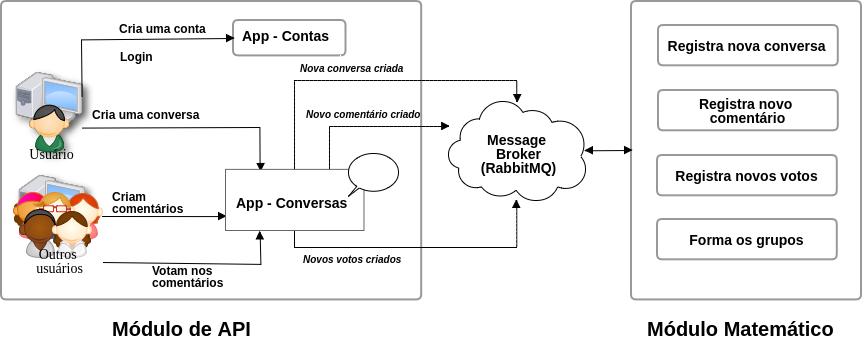
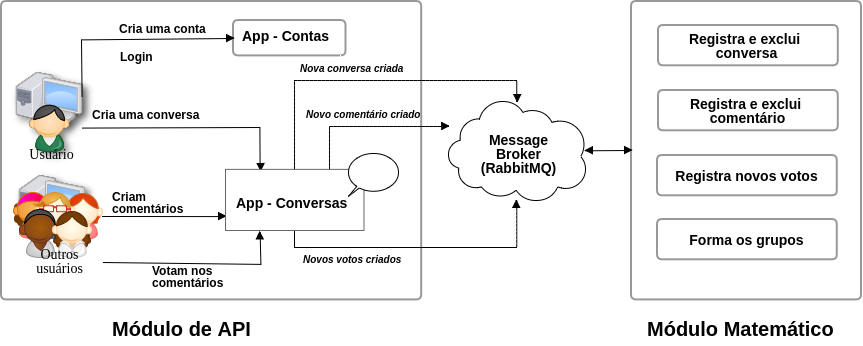
Adjusting images

diff --git a/editaveis/proposta.tex b/editaveis/proposta.tex
@@ -65,7 +65,9 @@
     
     Considerando o objetivo do trabalho de implementar uma API capaz de trabalhar com 
     módulos matemáticos plugáveis, a solução proposta está representada na Figura \ref{fig:pentano}, 
-    na qual são indicados os dois módulos tratados na solução: os módulos API e Matemático.
+    na qual são indicados os dois módulos tratados na solução: os módulos API e Matemático. Estes
+    dois módulos em conjunto com a aplicação cliente formam o sistema por completo que será denominado neste trabalho
+    de \textit{Pentano}.
     
     \begin{figure}[h!]
     \centering
@@ -140,7 +142,7 @@
 	\begin{figure}[h!]
 	\centering
 	\includegraphics[scale=0.8]{figuras/arquitetura_api.png}
-	\caption{Entidades da API}
+	\caption{Arquitetura de \textit{apps} da API}
 	\label{fig:arquitetura_api}
 	\end{figure}
 
@@ -204,8 +206,7 @@
 	  \begin{tabular}[c]{@{}l@{}}Adicionar novo voto\\ (pentano.add\_votes)\end{tabular}             & \begin{tabular}[c]{@{}l@{}}Identificador da conversa\\ Lista de votos e seus usuários\end{tabular}                                             & Confirmação de Sucesso               \\ \midrule
 	  \begin{tabular}[c]{@{}l@{}}Clusterizar\\ (pentano.get\_cluster)\end{tabular}                   & \begin{tabular}[c]{@{}l@{}}Identificador da conversa\\ Identificadores dos usuários amigos\end{tabular}               & \begin{tabular}[c]{@{}l@{}}Grupos de usuários \\(clusters)\end{tabular}\\ \midrule
 	  \begin{tabular}[c]{@{}l@{}}Excluir conversa\\ (pentano.delete\_conversation)\end{tabular}                   & Identificador da conversa & Confirmação de Sucesso         \\ \midrule
-	  \begin{tabular}[c]{@{}l@{}}Excluir comentário \\ (pentano.delete\_comment)\end{tabular}                   & Identificador do comentário              & Confirmação de Sucesso         \\ \midrule
-	  \begin{tabular}[c]{@{}l@{}}Excluir voto\\ (pentano.delete\_vote)\end{tabular}                   & Identificador do voto & Confirmação de Sucesso         \\ \bottomrule
+	  \begin{tabular}[c]{@{}l@{}}Excluir comentário \\ (pentano.delete\_comment)\end{tabular}                   & Identificador do comentário              & Confirmação de Sucesso         \\ \bottomrule
 	\end{tabular}
 	\end{table}
 	
@@ -215,9 +216,7 @@
 	a execução assíncrona das tarefas e permite distribuir o processamento, sendo possível montar um \textit{pool} de
 	módulos matemáticos para balancear carga, uma vez que o processo de clusterização pode vir a ser computacionalmente custoso.
  
-	\vfill
-	\pagebreak
-	\begin{figure}[bt!]
+	\begin{figure}[h]
 	\centering
 	\includegraphics[scale=0.5]{figuras/resumo_ej_api.png}
 	\caption{Funcionamento do Empurrando Juntos - Comunicação entre os módulos}
@@ -243,4 +242,7 @@
 	Quando o número de votos configurado no sistema é atingido o \textit{app} de conversas
 	faz uma chamada para a tarefa de clusterização que, ao ser recebida pelo módulo matemático,
 	é a tarefa responsável por calcular os \textit{clusters} considerando o usuário do novo voto,
-	gerando e retornando os novos grupos de usuários.
+	gerando e retornando os novos grupos de usuários. Esse número de votos configurado é responsabilidade
+	da implementação do módulo para poder gerenciar os momentos em que deve ser realizada clusterização visando 
+	uma boa performance da aplicação.
+	
